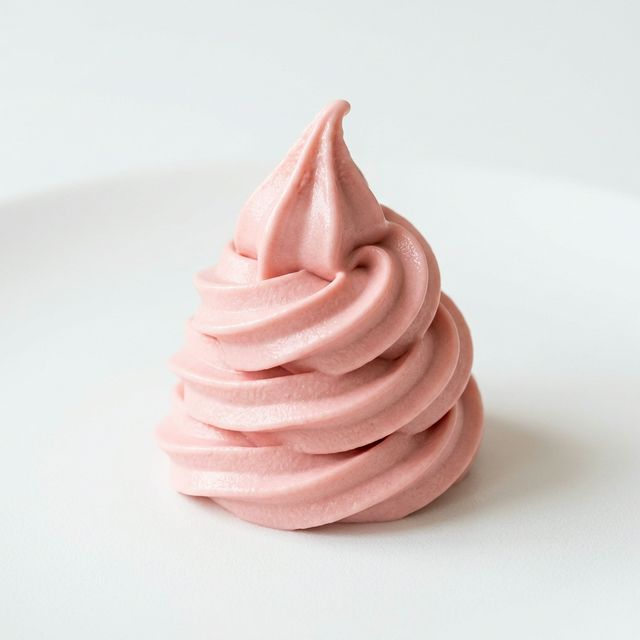
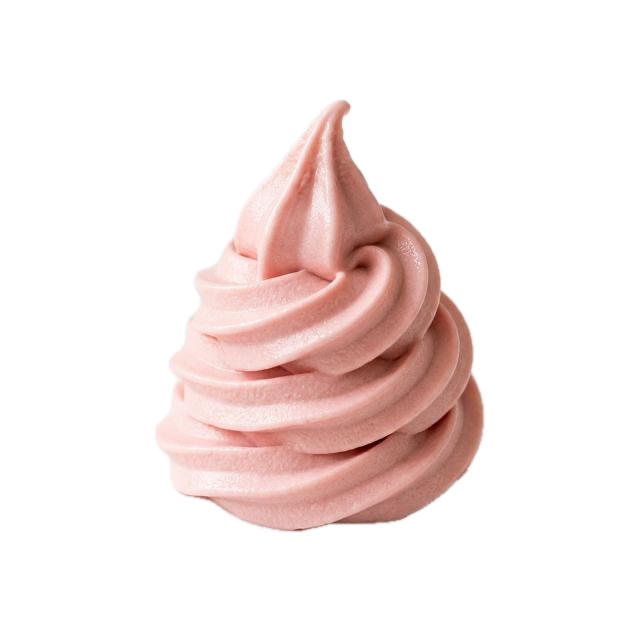
removed-bg-images

diff --git a/components/Flavours.tsx b/components/Flavours.tsx
@@ -1,6 +1,6 @@
 "use client";
 
-import { useState, useEffect, useCallback } from "react";
+import { useState, useCallback } from "react";
 import Image from "next/image";
 import { motion, AnimatePresence } from "framer-motion";
 
@@ -24,14 +24,6 @@ export default function Flavours() {
         setActiveIndex((prev) => (prev + 1) % flavours.length);
     }, []);
 
-    // The user requested "0.5 ms" which practically means a very fast interval (0.5s or 1.5s). 
-    // Using 1500ms allows it to "popup" quickly while still being readable.
-    useEffect(() => {
-        const interval = setInterval(() => {
-            handleNext();
-        }, 1500);
-        return () => clearInterval(interval);
-    }, [handleNext]);
 
     const getCardStyle = (i: number) => {
         const total = flavours.length;
@@ -109,6 +101,7 @@ export default function Flavours() {
                                         className="object-contain"
                                         sizes="(max-width: 768px) 150px, 180px"
                                         priority={isCenter}
+                                        unoptimized
                                     />
                                 </div>
                                 <h3 className="text-deepRed font-heading text-2xl md:text-3xl font-bold mt-2">